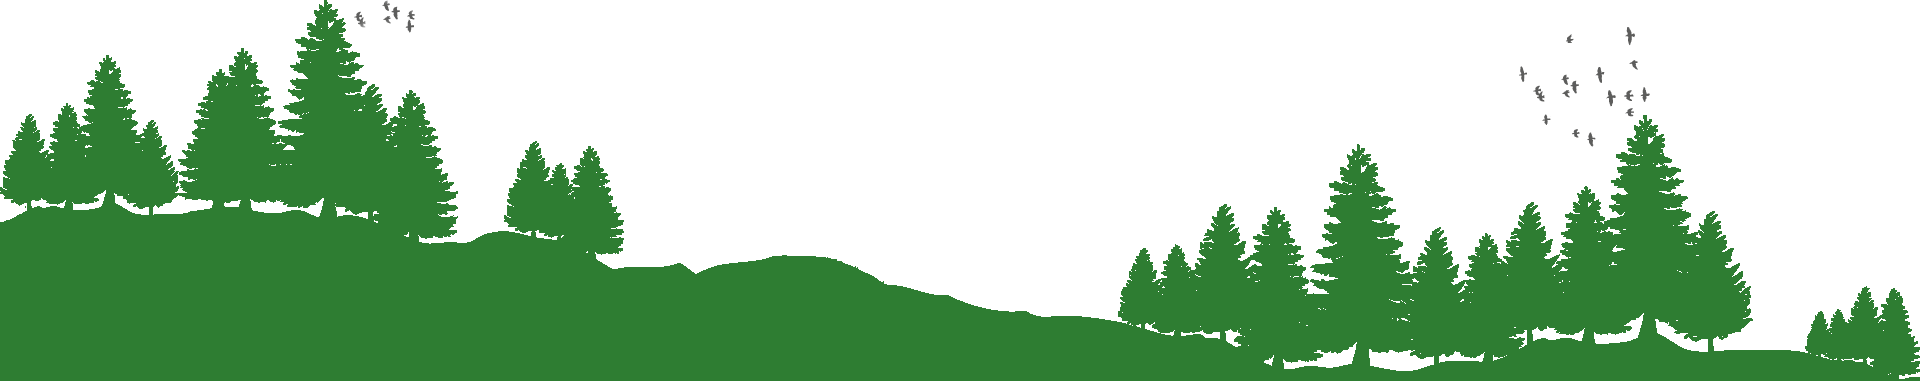
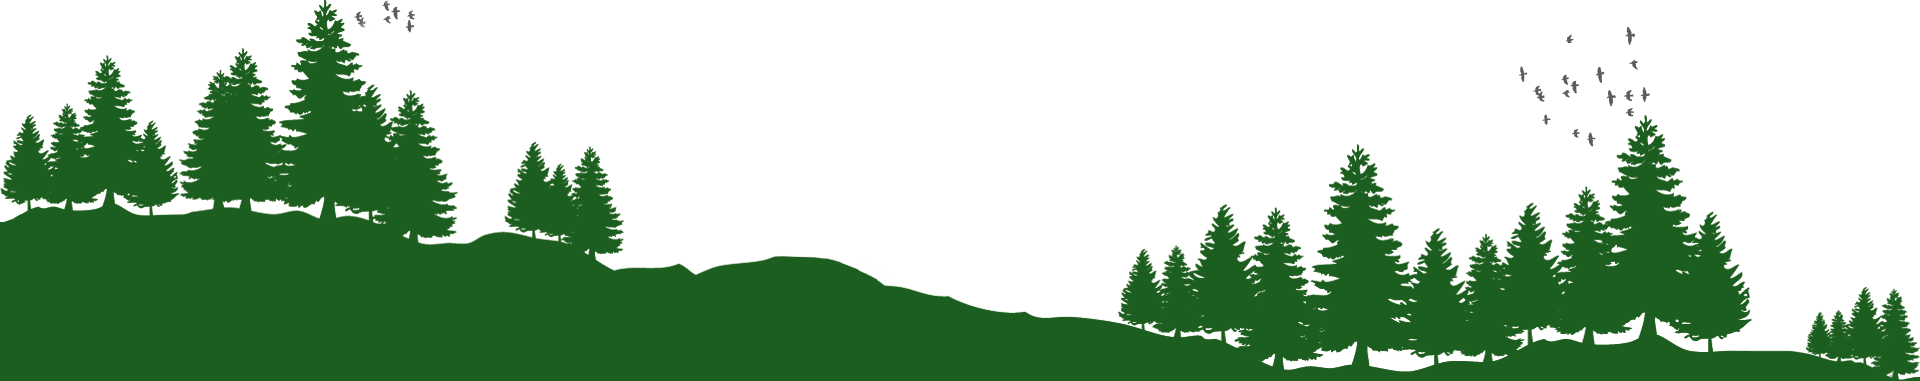
Made Header temp

diff --git a/public/css/Standard.scss b/public/css/Standard.scss
@@ -1,30 +1,36 @@
 /* welkom to the main css file, it's still empty though, also potentaill obsolete already */
+
+$primary: #1b5e20;
+
 /*Global*/
-html, body {
-  width: 100%; }
+html, body{
+  width: 100%;
+}
 
 /*header*/
-.img-wrapper {
+.img-wrapper{
   text-align: center;
   height: 420px;
   background: url("../images/header-bg-trees.png") no-repeat 55% 10px;
   margin: 0;
   padding: 95px 0 0 0;
   width: 100%;
-  margin-bottom: -29px; }
+  margin-bottom: -29px;
+}
 
-.navbar-light {
+.navbar-light{
   margin-top: -30px;
-  background: transparent !important; }
+  background: transparent !important;
+}
 
 .nav-item {
-  color: #1b5e20;
+  color: $primary;
   font-weight: bold;
-  text-decoration: none !important; }
+  text-decoration: none !important;
+}
 
-.main-content {
-  background: #1b5e20;
+.main-content{
+  background: $primary;
   height: 1vh;
-  width: 100%; }
-
-/*# sourceMappingURL=Standard.css.map */
+  width: 100%;
+}

diff --git a/resources/views/layouts/Master.blade.php b/resources/views/layouts/Master.blade.php
@@ -21,10 +21,28 @@
 
 <body>
 <div class="container-fluid">
-    <nav>
-
-    </nav>
-    @yield('content')
+    <div class="row">
+        <header class="img-wrapper">
+            <nav class="navbar navbar-light bg-light justify-content-between">
+                <div class="container">
+                    <ul class="d-flex justify-content-start">
+                        <li class="nav-link"><a href="/" class="nav-item">Home</a></li>
+                        <li class="nav-link"><a href="/activiteiten" class="nav-item">Activiteiten</a></li>
+                        <li class="nav-link"><a href="/partners" class="nav-item">Partners</a></li>
+                    </ul>
+                    <a class="d-flex justify-content-center"><img src="{{asset('images/logo.png')}}"></a>
+                    <ul class="d-flex justify-content-end">
+                        <li class="nav-link"><a href="/niews" class="nav-item">Nieuws</a></li>
+                        <li class="nav-link"><a href="/fotos" class="nav-item">Foto's</a></li>
+                        <li class="nav-link"><a href="/contact" class="nav-item">Contact</a></li>
+                    </ul>
+                </div>
+            </nav>
+        </header>
+        <main class="main-content">
+            @yield('content')
+        </main>
+    </div>
 </div>
     <script src="https://code.jquery.com/jquery-3.3.1.slim.min.js" integrity="sha384-q8i/X+965DzO0rT7abK41JStQIAqVgRVzpbzo5smXKp4YfRvH+8abtTE1Pi6jizo" crossorigin="anonymous"></script>
     <script src="https://cdnjs.cloudflare.com/ajax/libs/popper.js/1.14.0/umd/popper.min.js" integrity="sha384-cs/chFZiN24E4KMATLdqdvsezGxaGsi4hLGOzlXwp5UZB1LY//20VyM2taTB4QvJ" crossorigin="anonymous"></script>

diff --git a/resources/views/Main.blade.php b/resources/views/Main.blade.php
@@ -1,9 +1,5 @@
 @extends ('layouts.Master')
 
 @section('content')
-    <div class="row">
-        <header class="img-wrapper">
 
-        </header>
-    </div>
 @endsection
